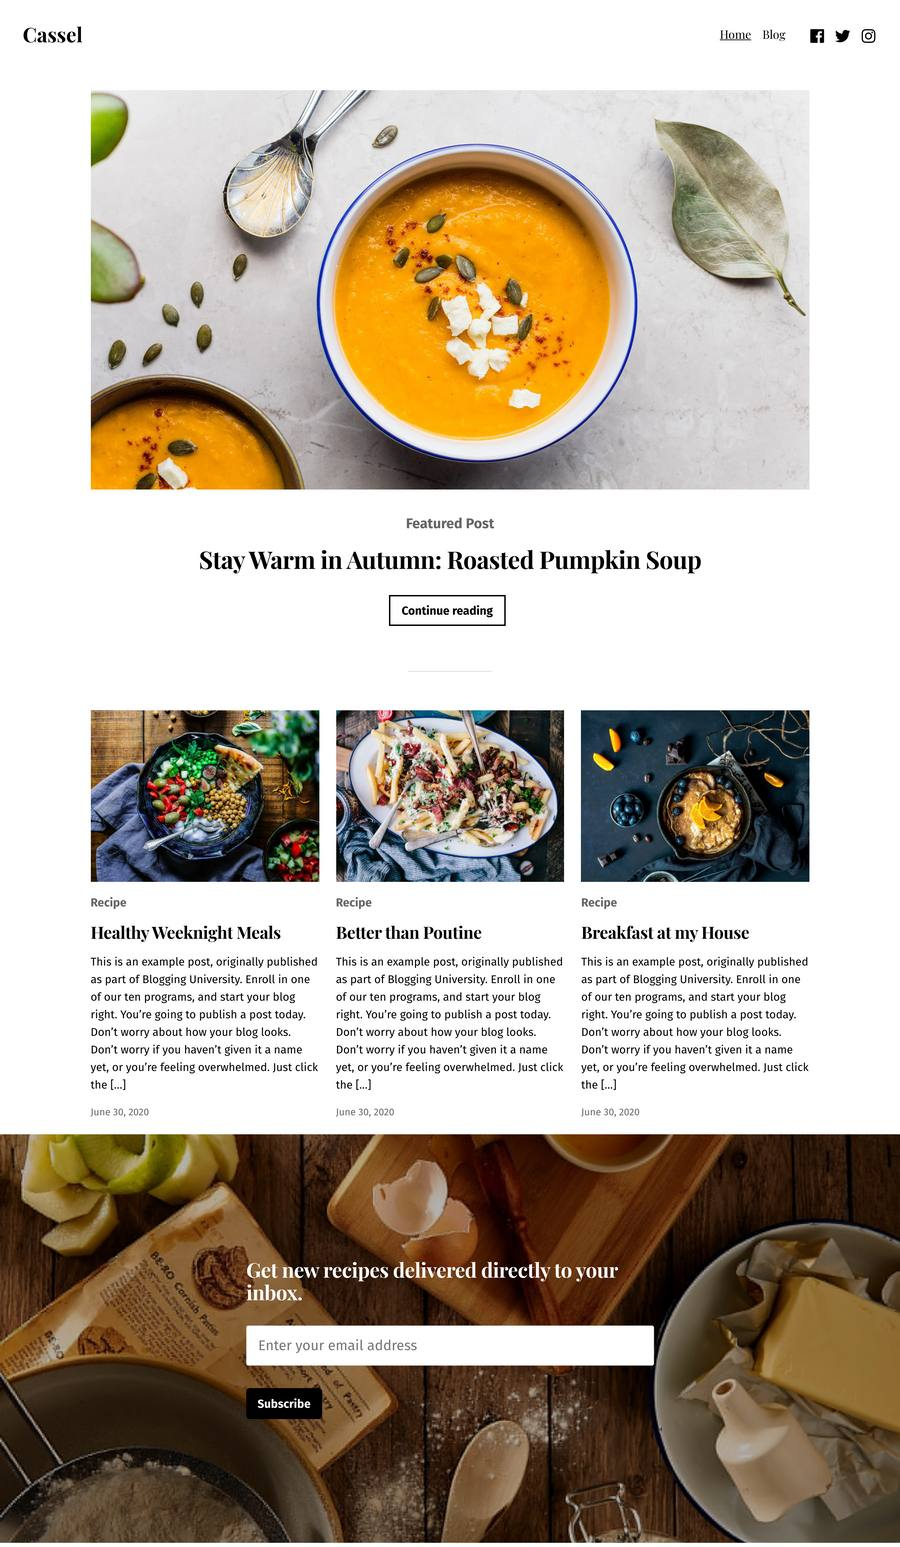
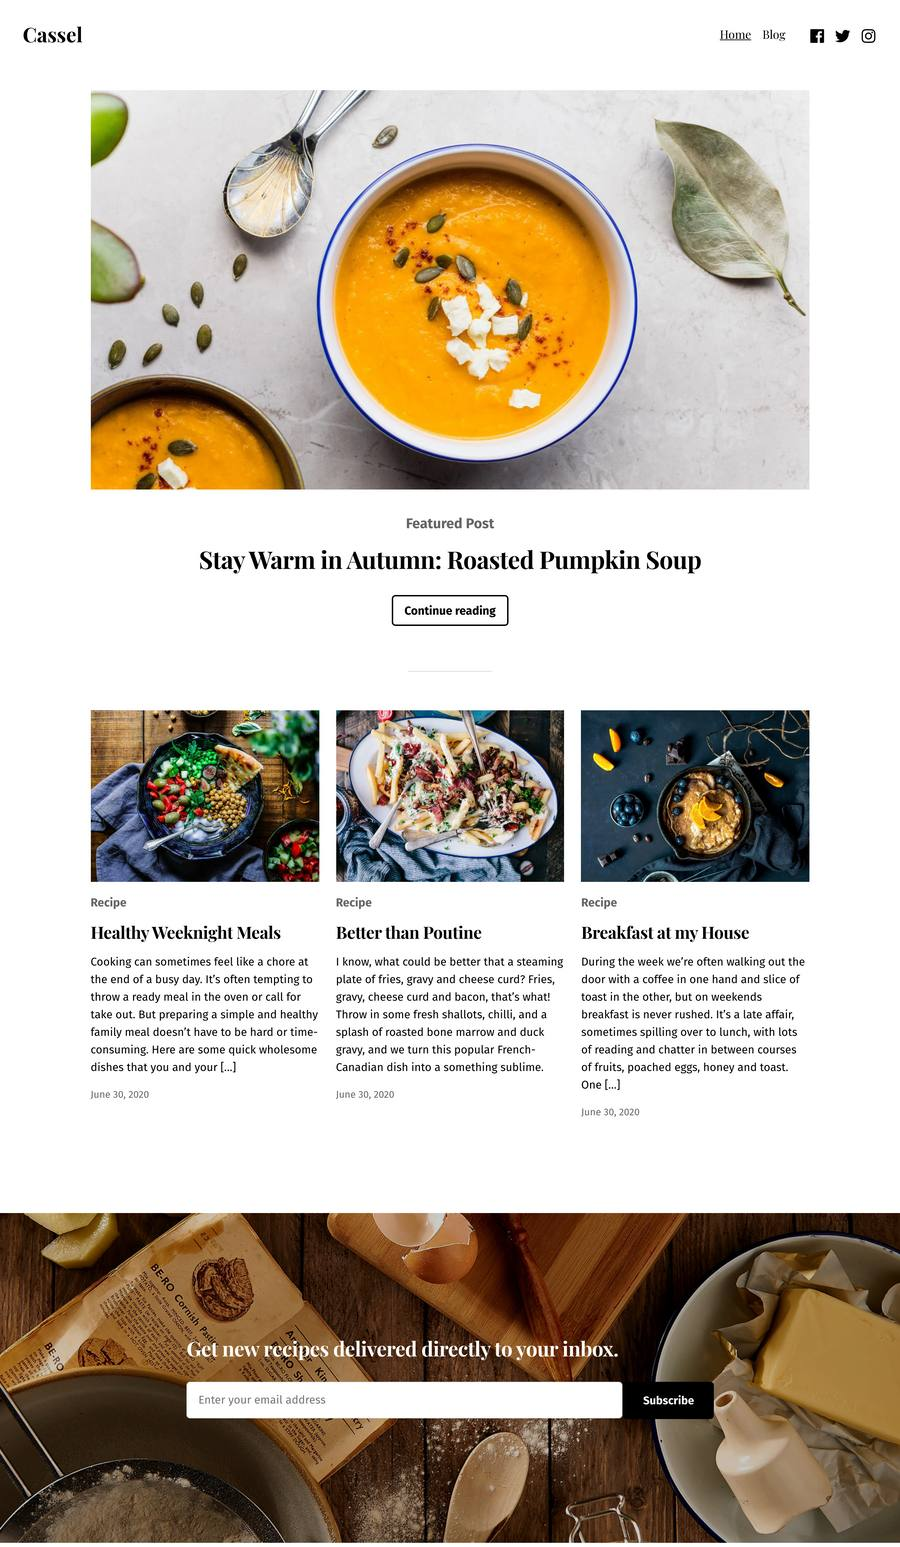
Gutenboarding: update design preview screenshots (#44896)
* Regenerating thumbnails for designs whose copy has changed in D47680-code

* Bumping cache buster

Changed region(s): [[0.0, 0.6206, 1.0, 1.0], [0.4356, 0.3723, 0.56, 0.4034]]

diff --git a/client/landing/gutenboarding/available-designs.ts b/client/landing/gutenboarding/available-designs.ts
@@ -37,7 +37,7 @@ export const getDesignImageUrl = ( design: Design ) => {
 		// When we update the static images, bump the version for cache busting
 		return `/calypso/page-templates/design-screenshots/${ design.slug }_${ design.template }_${
 			design.theme
-		}.${ canUseWebP ? 'webp' : 'jpg' }?v=2`;
+		}.${ canUseWebP ? 'webp' : 'jpg' }?v=3`;
 	}
 
 	const mshotsUrl = 'https://s.wordpress.com/mshots/v1/';
